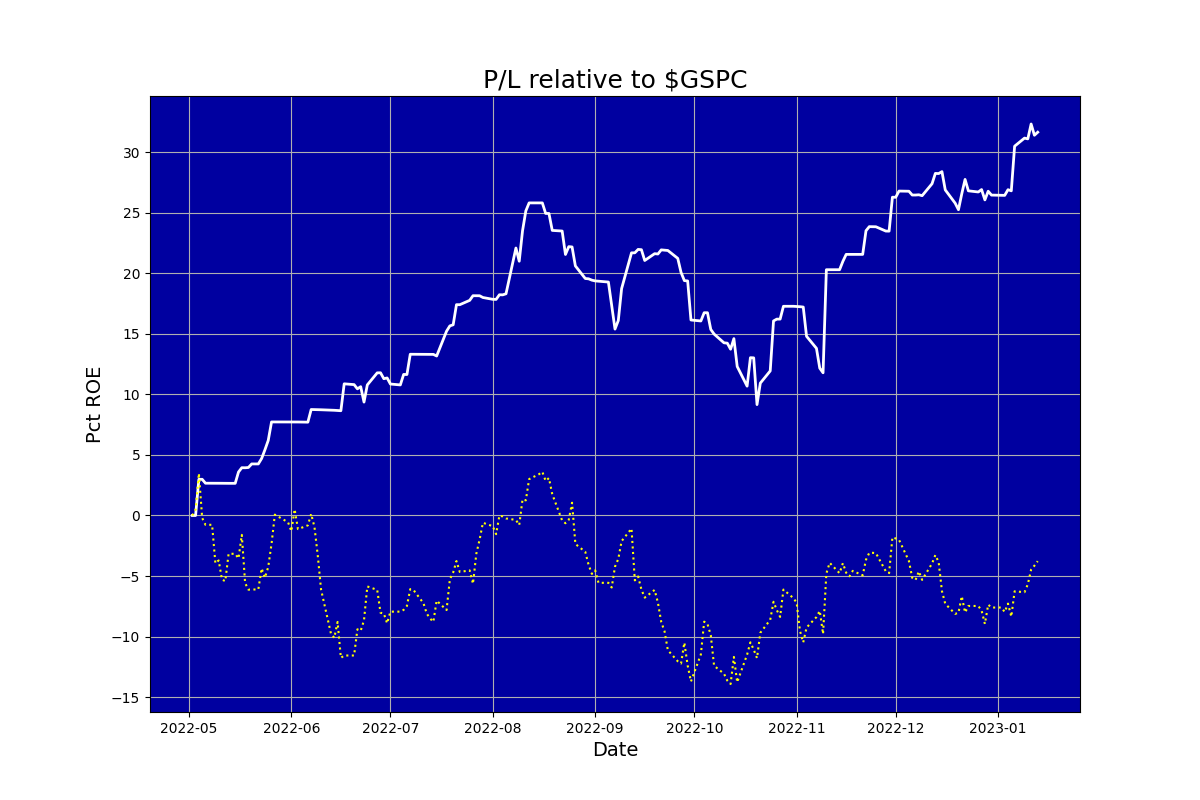
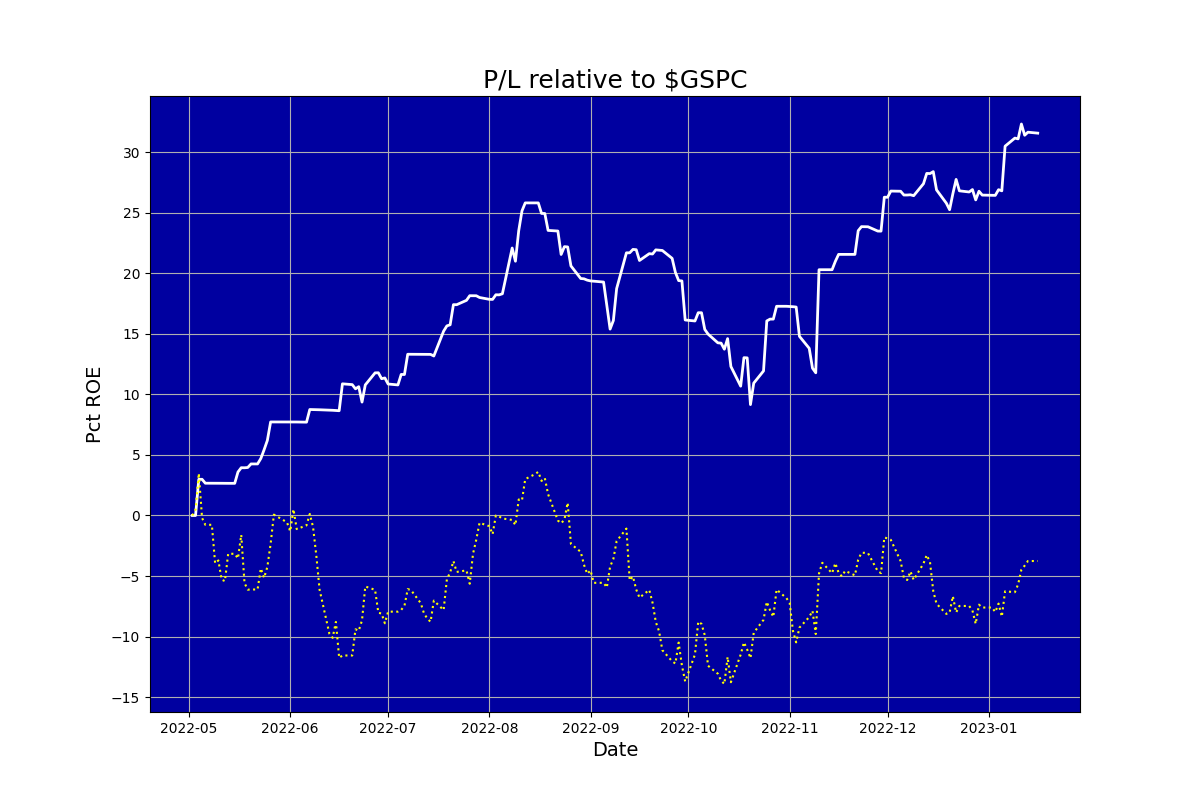
Updated

diff --git a/ig_report.html b/ig_report.html
@@ -1,1 +1,1 @@
-<html><body><center><h1>Auriel (never knowingly overbought)</h1></center><table cols=2><tr><td><img src=ig_pl.png></td><td><table cols=2><tr><td colspan=2><b><br>Snapshot</b></td></tr><tr><td>Last updated:&nbsp;&nbsp;&nbsp;</td><td>2023-01-13 15:57</td></tr><tr><td>Margin:&nbsp;&nbsp;&nbsp;</td><td>0.28</td></tr><tr><td>Cushion:&nbsp;&nbsp;&nbsp;</td><td>-4171.10</td></tr><tr><td>Last closed trade:&nbsp;&nbsp;&nbsp;</td><td>2023-01-13</td></tr><tr><td colspan=2><b><br>Positions</b></td></tr><tr><td>Mean days to new high:&nbsp;&nbsp;&nbsp;</td><td>11.50</td></tr><tr><td colspan=2><b><br>Trades</b></td></tr><tr><td>Traded days:&nbsp;&nbsp;&nbsp;</td><td>187</td></tr><tr><td>Profitable days pct:&nbsp;&nbsp;&nbsp;</td><td>35.29</td></tr><tr><td>Days beat S&P pct:&nbsp;&nbsp;&nbsp;</td><td>57.30</td></tr><tr><td>Profitable months pct:&nbsp;&nbsp;&nbsp;</td><td>88.89</td></tr><tr><td colspan=2><b><br>Performance</b></td></tr><tr><td>Pct median monthly ROE:&nbsp;&nbsp;&nbsp;</td><td>3.63</td></tr><tr><td>Pct annualised ROE:&nbsp;&nbsp;&nbsp;</td><td>42.32</td></tr><tr><td colspan=2><b><br>Risk</b></td></tr><tr><td>Volatility pct:&nbsp;&nbsp;&nbsp;</td><td>19.48</td></tr><tr><td>Benchmark volatility pct:&nbsp;&nbsp;&nbsp;</td><td>24.51</td></tr><tr><td>Sharpe ratio (RFR 5.0%):&nbsp;&nbsp;&nbsp;</td><td>2.01</td></tr><tr><td>Sortino ratio (RFR 5.0%):&nbsp;&nbsp;&nbsp;</td><td>3.38</td></tr><tr><td>Calmar ratio:&nbsp;&nbsp;&nbsp;</td><td>2.54</td></tr><tr><td>Worst drawdown pct:&nbsp;&nbsp;&nbsp;</td><td>-0.17</td></tr><tr><td>Recovery days from worst drawdown:&nbsp;&nbsp;&nbsp;</td><td>29.00</td></tr><tr><td>Beat benchmark +ve periods pct:&nbsp;&nbsp;&nbsp;</td><td>80.64</td></tr><tr><td>Beat benchmark -ve periods pct:&nbsp;&nbsp;&nbsp;</td><td>93.43</td></tr><tr><td>Correlation with benchmark:&nbsp;&nbsp;&nbsp;</td><td>0.40</td></tr></table></td></tr></table></body></html>
+<html><body><center><h1>Auriel (never knowingly overbought)</h1></center><table cols=2><tr><td><img src=ig_pl.png></td><td><table cols=2><tr><td colspan=2><b><br>Snapshot</b></td></tr><tr><td>Last updated:&nbsp;&nbsp;&nbsp;</td><td>2023-01-16 15:56</td></tr><tr><td>Margin:&nbsp;&nbsp;&nbsp;</td><td>0.28</td></tr><tr><td>Cushion:&nbsp;&nbsp;&nbsp;</td><td>-4152.60</td></tr><tr><td>Last closed trade:&nbsp;&nbsp;&nbsp;</td><td>2023-01-16</td></tr><tr><td colspan=2><b><br>Positions</b></td></tr><tr><td>Mean days to new high:&nbsp;&nbsp;&nbsp;</td><td>11.47</td></tr><tr><td colspan=2><b><br>Trades</b></td></tr><tr><td>Traded days:&nbsp;&nbsp;&nbsp;</td><td>188</td></tr><tr><td>Profitable days pct:&nbsp;&nbsp;&nbsp;</td><td>35.11</td></tr><tr><td>Days beat S&P pct:&nbsp;&nbsp;&nbsp;</td><td>57.30</td></tr><tr><td>Profitable months pct:&nbsp;&nbsp;&nbsp;</td><td>88.89</td></tr><tr><td colspan=2><b><br>Performance</b></td></tr><tr><td>Pct median monthly ROE:&nbsp;&nbsp;&nbsp;</td><td>3.63</td></tr><tr><td>Pct annualised ROE:&nbsp;&nbsp;&nbsp;</td><td>41.99</td></tr><tr><td colspan=2><b><br>Risk</b></td></tr><tr><td>Volatility pct:&nbsp;&nbsp;&nbsp;</td><td>19.43</td></tr><tr><td>Benchmark volatility pct:&nbsp;&nbsp;&nbsp;</td><td>24.51</td></tr><tr><td>Sharpe ratio (RFR 5.0%):&nbsp;&nbsp;&nbsp;</td><td>2.00</td></tr><tr><td>Sortino ratio (RFR 5.0%):&nbsp;&nbsp;&nbsp;</td><td>3.36</td></tr><tr><td>Calmar ratio:&nbsp;&nbsp;&nbsp;</td><td>2.52</td></tr><tr><td>Worst drawdown pct:&nbsp;&nbsp;&nbsp;</td><td>-0.17</td></tr><tr><td>Recovery days from worst drawdown:&nbsp;&nbsp;&nbsp;</td><td>29.00</td></tr><tr><td>Beat benchmark +ve periods pct:&nbsp;&nbsp;&nbsp;</td><td>80.90</td></tr><tr><td>Beat benchmark -ve periods pct:&nbsp;&nbsp;&nbsp;</td><td>93.47</td></tr><tr><td>Correlation with benchmark:&nbsp;&nbsp;&nbsp;</td><td>0.40</td></tr></table></td></tr></table></body></html>
